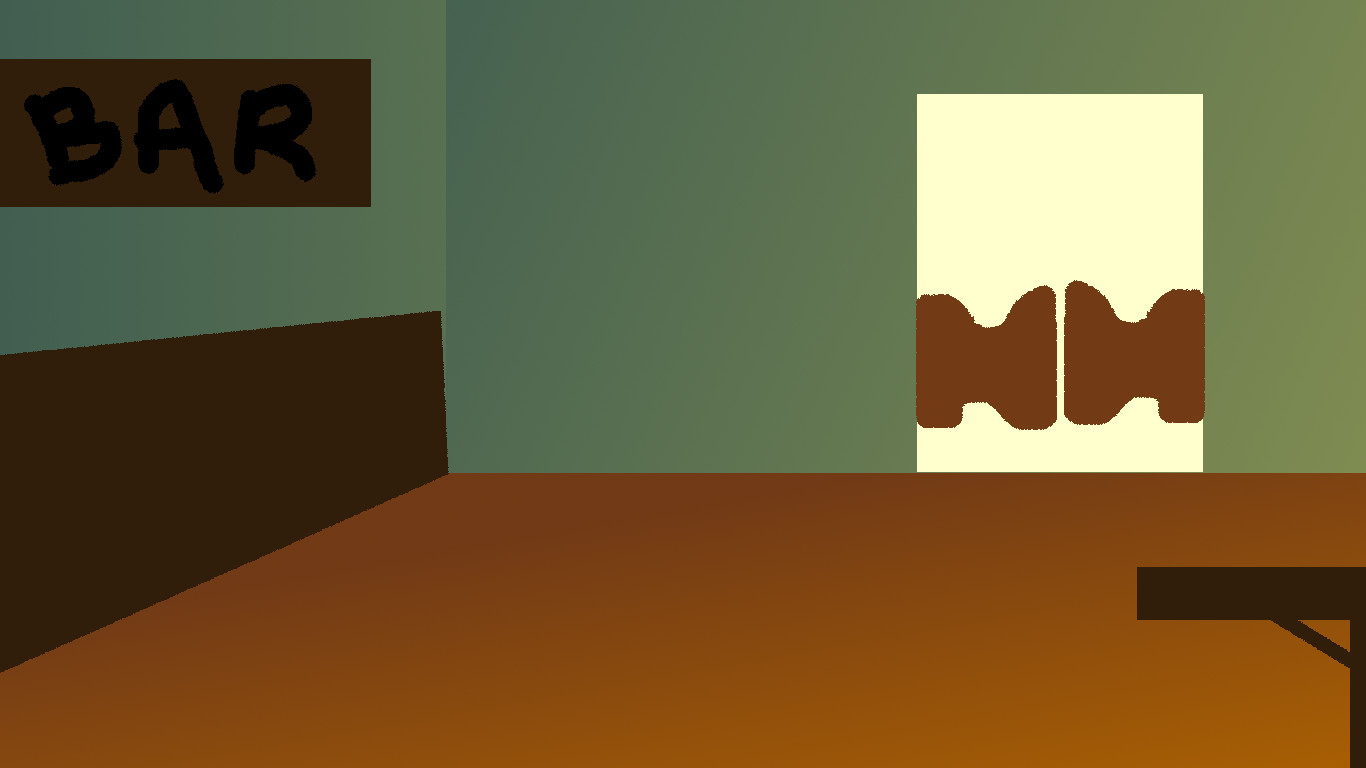
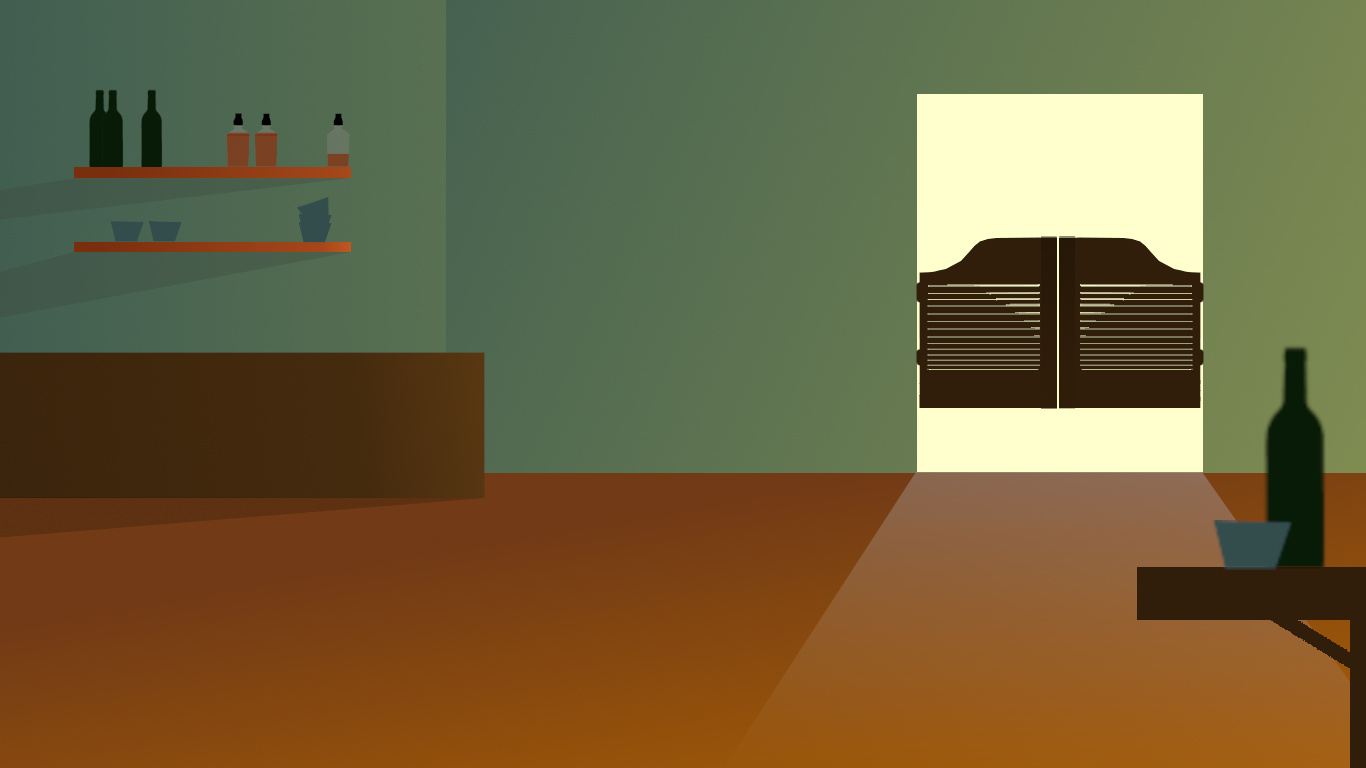
replace placeholder backgrounds

diff --git a/main.js b/main.js
@@ -23,6 +23,7 @@ let shapeSide;
 let crosshairs;
 let glass;
 let liquid;
+let bottles;
 
 // ui elements
 let songs;
@@ -199,7 +200,7 @@ function scene2Ending() {
   }, 2000);
   setTimeout(() => {
     switchScene(1);
-    shapeFront.fadeTo(2000, 0.9);
+    shapeFront.fadeTo(2000, 0.8);
   }, 4000);
   setTimeout(() => {
     let msg, options;
@@ -342,10 +343,12 @@ function switchScene(newIndex) {
 
   if (currentScene === 3) {
     crosshairs.show();
-    shapeSide.fadeTo(3000, 0.9);
+    bottles.show();
+    shapeSide.fadeTo(3000, 0.8);
     cockGun();
   } else {
     crosshairs.hide();
+    bottles.hide();
   }
 }
 
@@ -492,6 +495,7 @@ $(document).ready(function() {
   crosshairs = $('#crosshairs');
   glass = $('.glass');
   liquid = $('.glass .liquid');
+  bottles = $('.bottle');
 
   // event handlers
   cover.on('click', function(event) {
@@ -515,6 +519,7 @@ $(document).ready(function() {
 
       shapeSide.hide();
       crosshairs.hide();
+      bottles.hide();
 
       daysSpent++;
       setTimeout(startNewScene, 12000);

diff --git a/styles.css b/styles.css
@@ -50,7 +50,7 @@ body {
   border: 20px solid #a29cd15e;
   border-radius: 1000px;
   backdrop-filter: blur(8px) contrast(0.7);
-  -webkit-backdrop-filter: blur(8px) contrast(0.7);
+  -webkit-backdrop-filter: blur(5px) contrast(0.7);
   display: none;
 }
 
@@ -67,8 +67,8 @@ body {
 
 .glass .liquid {
   position: absolute;
-  top: 30px;
-  left: 30px;
+  top: 18px;
+  left: 18px;
   border: 1px solid #6a0f0f;
   background-color: #5c2310d6;
   width: 400px;
@@ -244,4 +244,32 @@ body {
   background-size: contain;
   background-repeat: no-repeat;
   opacity: 0;
+}
+
+.bottle {
+  position: absolute;
+  background-image: url(assets/img/bottle.png);
+  background-size: contain;
+  background-repeat: no-repeat;
+  display: none;
+}
+
+.bottle.first {
+  top: 202px;
+  left: 500px;
+  /* sizes grow slightly with perspective */
+  width: 150px;
+  height: 260px;
+}
+.bottle.second {
+  top: 203px;
+  left: 800px;
+  width: 150px;
+  height: 280px;
+}
+.bottle.third {
+  top: 204px;
+  left: 1120px;
+  width: 150px;
+  height: 300px;
 }

diff --git a/index.html b/index.html
@@ -24,11 +24,14 @@
     </div>
     <div class="shape-front"></div>
     <div class="shape-side"></div>
-    <div id="crosshairs"></div>
     <div class="glass">
       <div class="bottom"></div>
       <div class="liquid"></div>
     </div>
+    <div class="bottle first"></div>
+    <div class="bottle second"></div>
+    <div class="bottle third"></div>
+    <div id="crosshairs"></div>
   </div>
 
   <script src="ext/jquery.js"></script>
